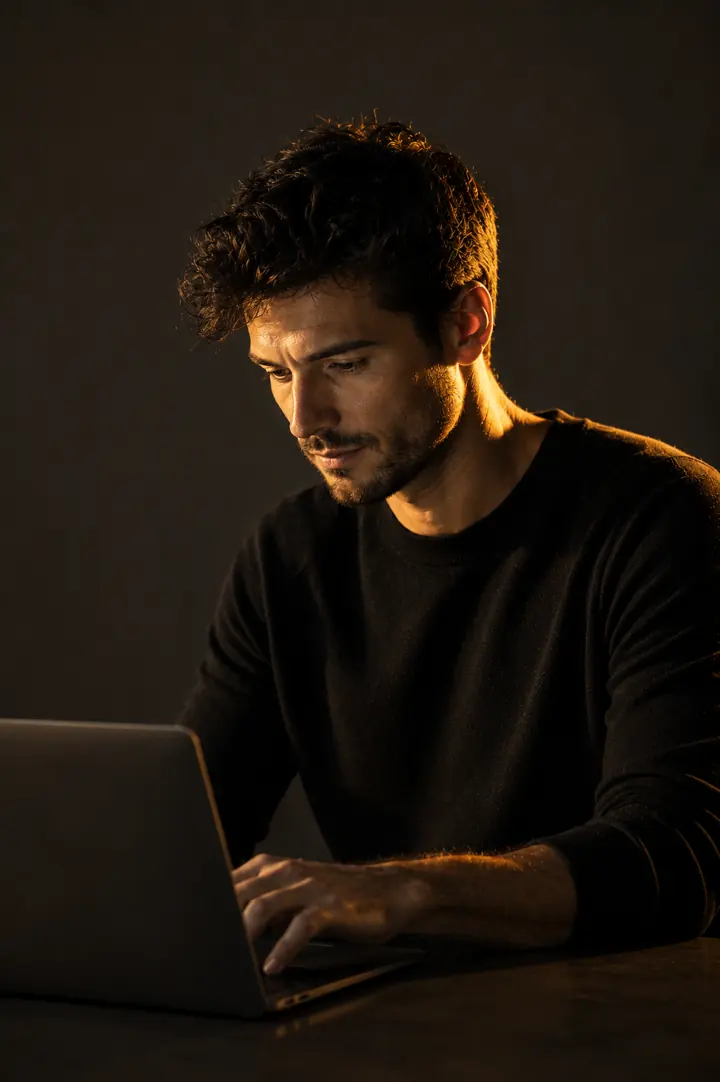
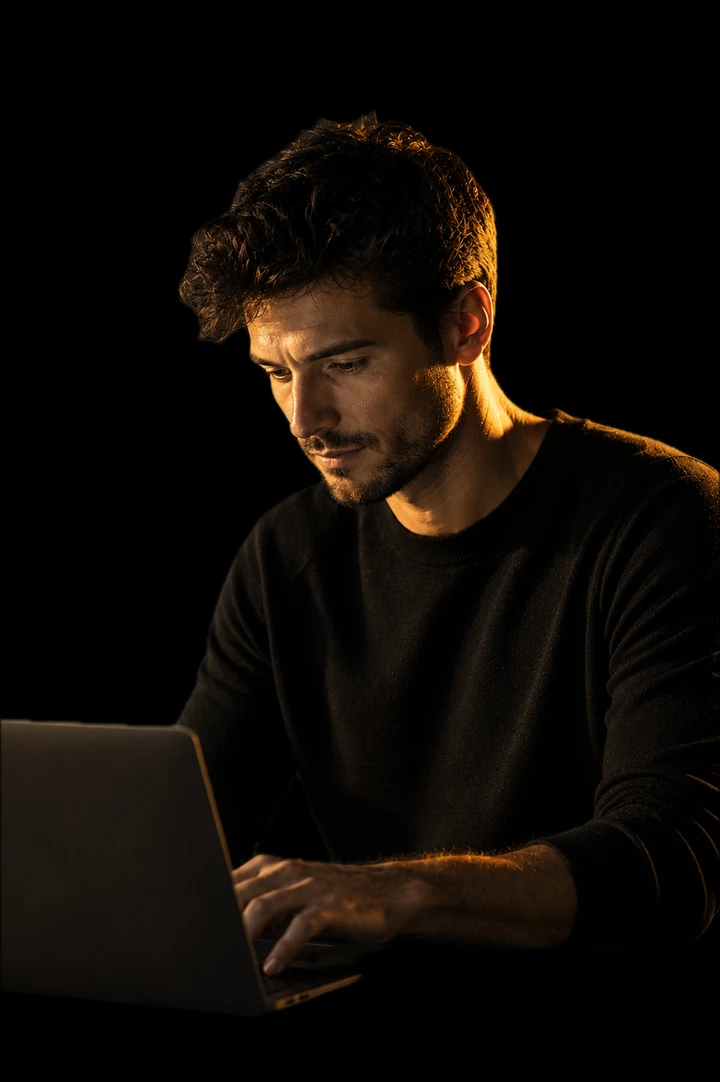
Accountability cards: cut photo backgrounds to pure black, expanded runner from Figma

diff --git a/index.html b/index.html
@@ -82,8 +82,8 @@
 <link rel="preconnect" href="https://fonts.googleapis.com" />
 <link rel="preconnect" href="https://fonts.gstatic.com" crossorigin />
 <link href="https://fonts.googleapis.com/css2?family=JetBrains+Mono:wght@400;500;700&display=swap" rel="stylesheet" />
-<link rel="stylesheet" href="css/tokens.css?v=20261109f" />
-<link rel="stylesheet" href="css/styles.css?v=20261109f" />
+<link rel="stylesheet" href="css/tokens.css?v=20261109g" />
+<link rel="stylesheet" href="css/styles.css?v=20261109g" />
 <script defer src="https://cdn.vercel-insights.com/v1/script.js"></script>
 </head>
 <body>
@@ -570,6 +570,6 @@
     </div>
   </footer>
 
-  <script src="js/app.js?v=20261109f"></script>
+  <script src="js/app.js?v=20261109g"></script>
 </body>
 </html>
